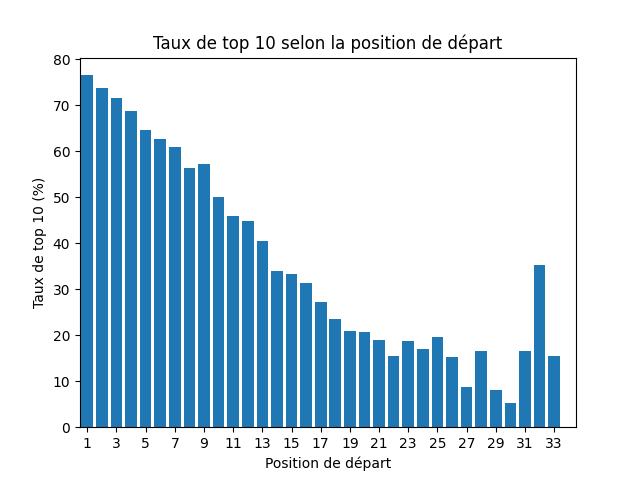
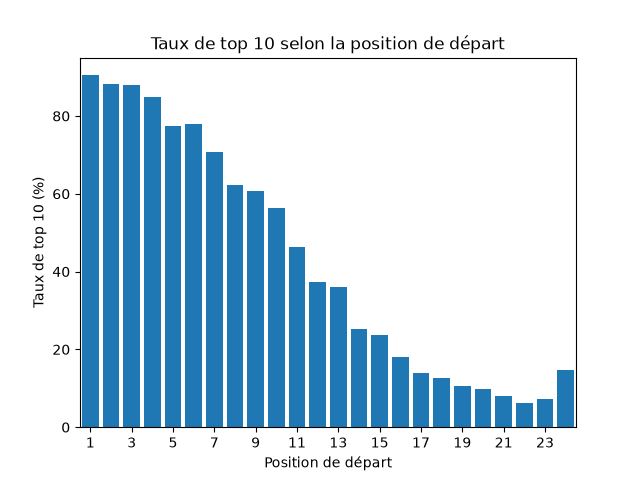
docstrings, annotations de type et nettoyage de donnees, modele, variables et exceptions

Changed region(s): [[0.0312, 0.1562, 0.9062, 1.0], [0.2188, 0.0625, 0.7812, 0.125], [0.0938, 0.0938, 0.125, 0.125]]

diff --git a/src/modele.py b/src/modele.py
@@ -25,9 +25,19 @@ def separation_donnees(df:pd.DataFrame) -> tuple[pd.DataFrame, pd.DataFrame, pd.
     X_train, X_test, y_train, y_test = train_test_split(X , y, random_state=0, test_size=0.2)
     return X_train, X_test, y_train, y_test
 
+
+
 def exactitude(y_vrai,y_predit):
+    """Calcule l'exactitude (part de bonnes réponses) de façon vectorisée avec NumPy.
+
+    Reçoit : les vraies réponses et les prédictions, de même longueur.
+    Renvoie : un nombre entre 0 et 1
+    """
     juste= y_vrai==y_predit
     return (np.mean(juste))
+
+
+
 
 def creer_modele(profondeur_max: int=5) -> Pipeline:
     """Crée le modèle : encodage des colonnes texte, puis arbre de décision."""
@@ -37,6 +47,8 @@ def creer_modele(profondeur_max: int=5) -> Pipeline:
     ])
     arbre=DecisionTreeClassifier(max_depth=profondeur_max,random_state=0)
     return Pipeline([("preparation", preparation), ("arbre", arbre )])
+
+
 
 def evaluer_modele(modele: Pipeline, X_test: pd.DataFrame, y_test: pd.Series) -> dict:
     """Calcule l'exactitude, le F1 et la matrice de confusion du modèle sur le test."""
@@ -48,6 +60,9 @@ def evaluer_modele(modele: Pipeline, X_test: pd.DataFrame, y_test: pd.Series) ->
         "f1": float(f1_score(y_test, predictions)),
         "matrice_confusion": confusion_matrix(y_test, predictions).tolist(),
     }
+
+
+
 
 def creer_metadonnees(df: pd.DataFrame, resultats: dict) -> dict:
     """Décrit les colonnes d'entrée et le score du modèle, pour construire l'interface."""
@@ -64,12 +79,18 @@ def creer_metadonnees(df: pd.DataFrame, resultats: dict) -> dict:
         "resultats": resultats,
     }
 
+
+
+
 def sauvegarder_modele(modele: Pipeline, metadonnees: dict, dossier: str = "modeles") -> None:
     """Enregistre le modèle (joblib) et ses métadonnées (JSON) dans le dossier donné."""
     os.makedirs(dossier,exist_ok=True)
     joblib.dump(modele, os.path.join(dossier, "modele.joblib"))
     with open(os.path.join(dossier, "metadonnees.json"), "w", encoding="utf-8") as fichier:
         json.dump(metadonnees, fichier, indent=2, ensure_ascii=False)
+
+
+
 
 if __name__ == "__main__":
     df = creation_donnees()

diff --git a/src/donnees.py b/src/donnees.py
@@ -5,6 +5,12 @@ import os
 
 
 def lire_fichier_csv(fichier:str):
+    """Lit un fichier CSV du dossier donnees/.
+
+    Reçoit : le nom du fichier (ex. "results.csv").
+    Renvoie : un DataFrame où les valeurs "\\N" sont considérées comme manquantes.
+    Échoue : FileNotFoundError si le fichier n'existe pas.
+    """
 
     chemin = os.path.join("donnees", fichier)
     if os.path.exists(chemin) == False:
@@ -16,8 +22,12 @@ def lire_fichier_csv(fichier:str):
 
 
 def creation_donnees():
-    
+    """Réunit les 4 fichiers CSV en un seul tableau.
 
+    Renvoie : un DataFrame avec une ligne par voiture dans une course
+              (résultat, course, écurie et circuit).
+    Échoue : FileNotFoundError si un des fichiers CSV est introuvable.
+    """
     resultats = lire_fichier_csv('results.csv')
     resultats = resultats[["raceId", "constructorId", "grid", "positionOrder"]]
 
@@ -39,7 +49,17 @@ def creation_donnees():
 
 
 
-def nettoyage_donnees(df):
+def nettoyage_donnees(df:pd.DataFrame):
+    """Nettoie le tableau et crée la colonne cible top10.
+
+    - retire les départs depuis les stands (grid = 0) ;
+    - garde seulement les saisons depuis 2010 (le top 10 marque des points) ;
+    - crée top10 = True si la voiture finit dans les 10 premiers.
+
+    Reçoit : le tableau créé par creation_donnees.
+    Renvoie : un nouveau DataFrame nettoyé (l'original n'est pas modifié).
+    Échoue : KeyError si une des colonnes grid, year ou positionOrder manque.
+    """
     grid_possible = df["grid"] > 0 
     df = df[grid_possible].copy()
     df = df[df["year"] >= 2010]
@@ -49,8 +69,12 @@ def nettoyage_donnees(df):
 
 
 
-def creation_graphique(df):
+def creation_graphique(df:pd.DataFrame):
+    """Trace le taux de top 10 selon la position de départ et l'enregistre en image.
 
+    Reçoit : le tableau nettoyé et le chemin de l'image à créer.
+    Échoue : KeyError si les colonnes grid ou top10 manquent.
+    """
     taux = df.groupby("grid")["top10"].mean() * 100
     
     plt.bar(taux.index, taux.values)

diff --git a/src/variables.py b/src/variables.py
@@ -6,9 +6,11 @@ from exceptions import DonneeInvalide
 class Variable_general(ABC):
 
     def __init__(self,nom:str):
+        """Reçoit le nom de la variable (ex. "grid")."""
         self._nom = nom
 
     def __str__(self):
+        """Renvoie le nom de la variable."""
         return self._nom
 
     @abstractmethod
@@ -20,6 +22,7 @@ class Variable_general(ABC):
 class Variable_numerique(Variable_general):
 
     def __init__(self, nom:str,maximum:int,minimum:int):
+        """Reçoit le nom de la variable, puis son maximum et son minimum (dans cet ordre)."""
         super().__init__(nom)
         self._maximum = maximum 
         self._minimum = minimum
@@ -27,6 +30,7 @@ class Variable_numerique(Variable_general):
     
 
     def verfifier_variable(self,input_utilisateur:str):
+        
         
         try:
             valeur = int(input_utilisateur)

diff --git a/src/exceptions.py b/src/exceptions.py
@@ -1,3 +1,5 @@
 class DonneeInvalide(Exception):
     """Erreur levée lorsque la saisie de l'utilisateur n'est pas valide """
-    
+
+class ModeleIntrouvable(Exception):
+    """Erreur levée lorsque le modèle sauvegardé ou ses métadonnées sont introuvables."""
